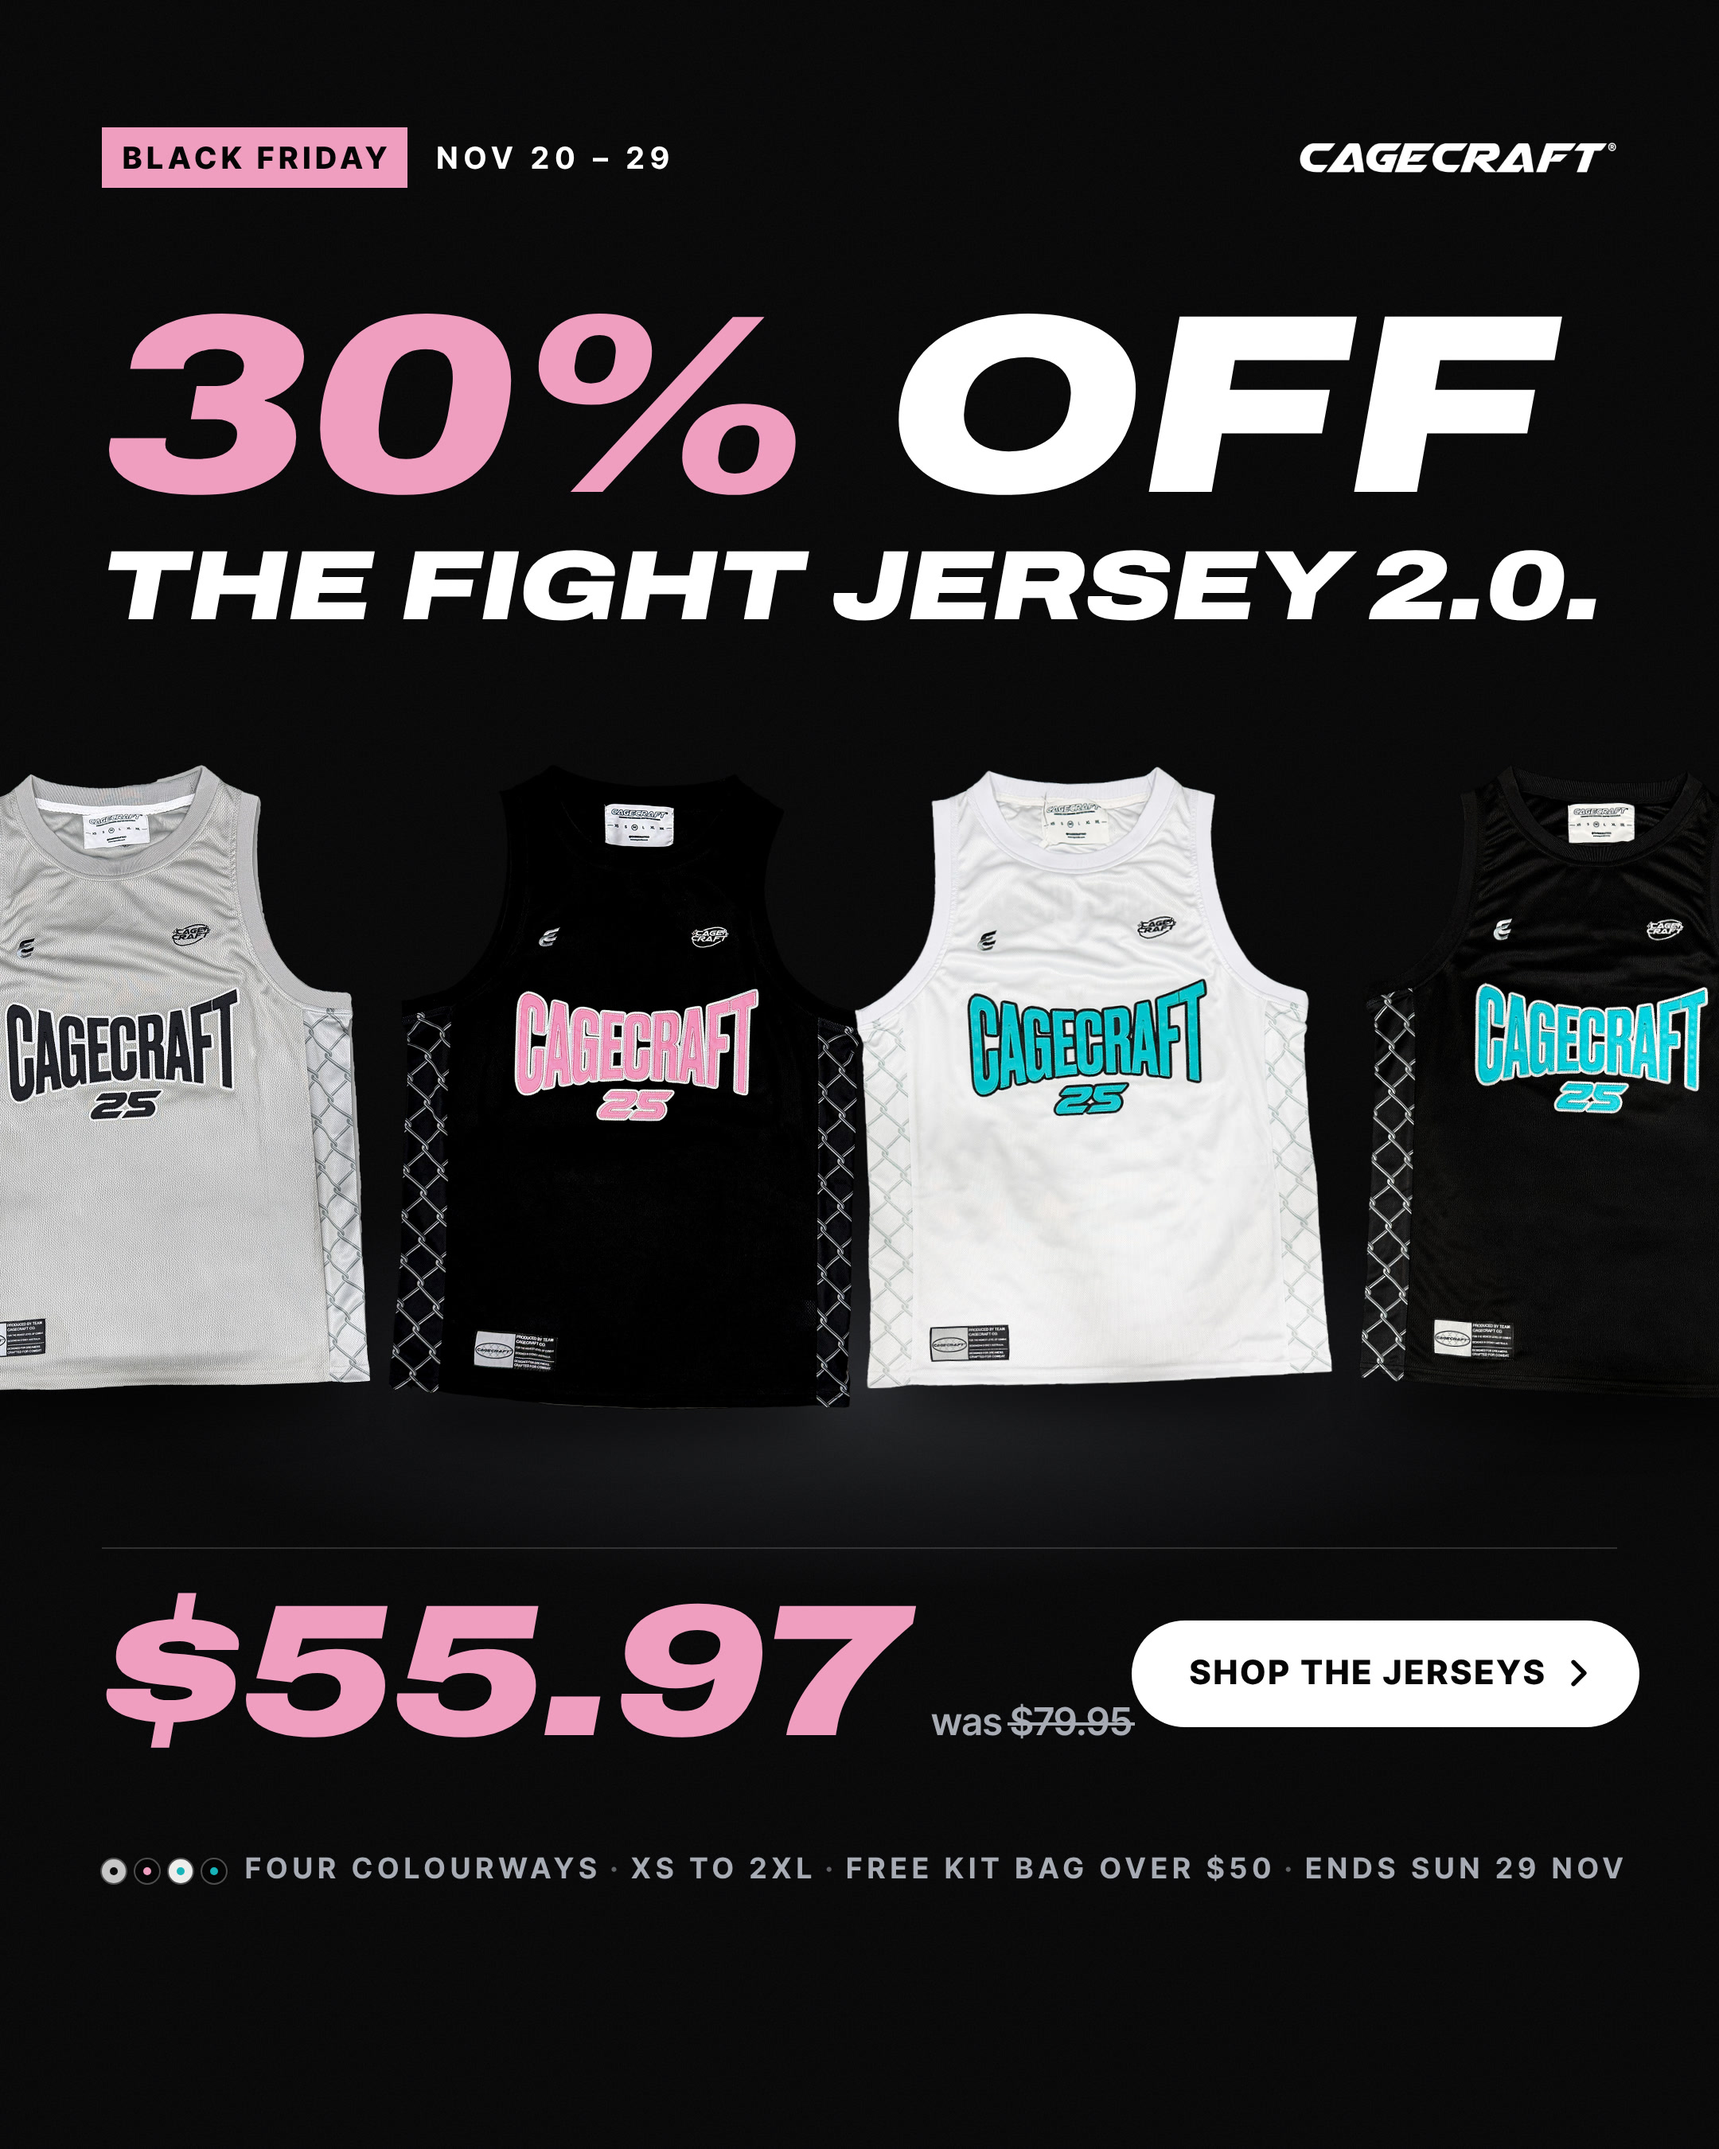
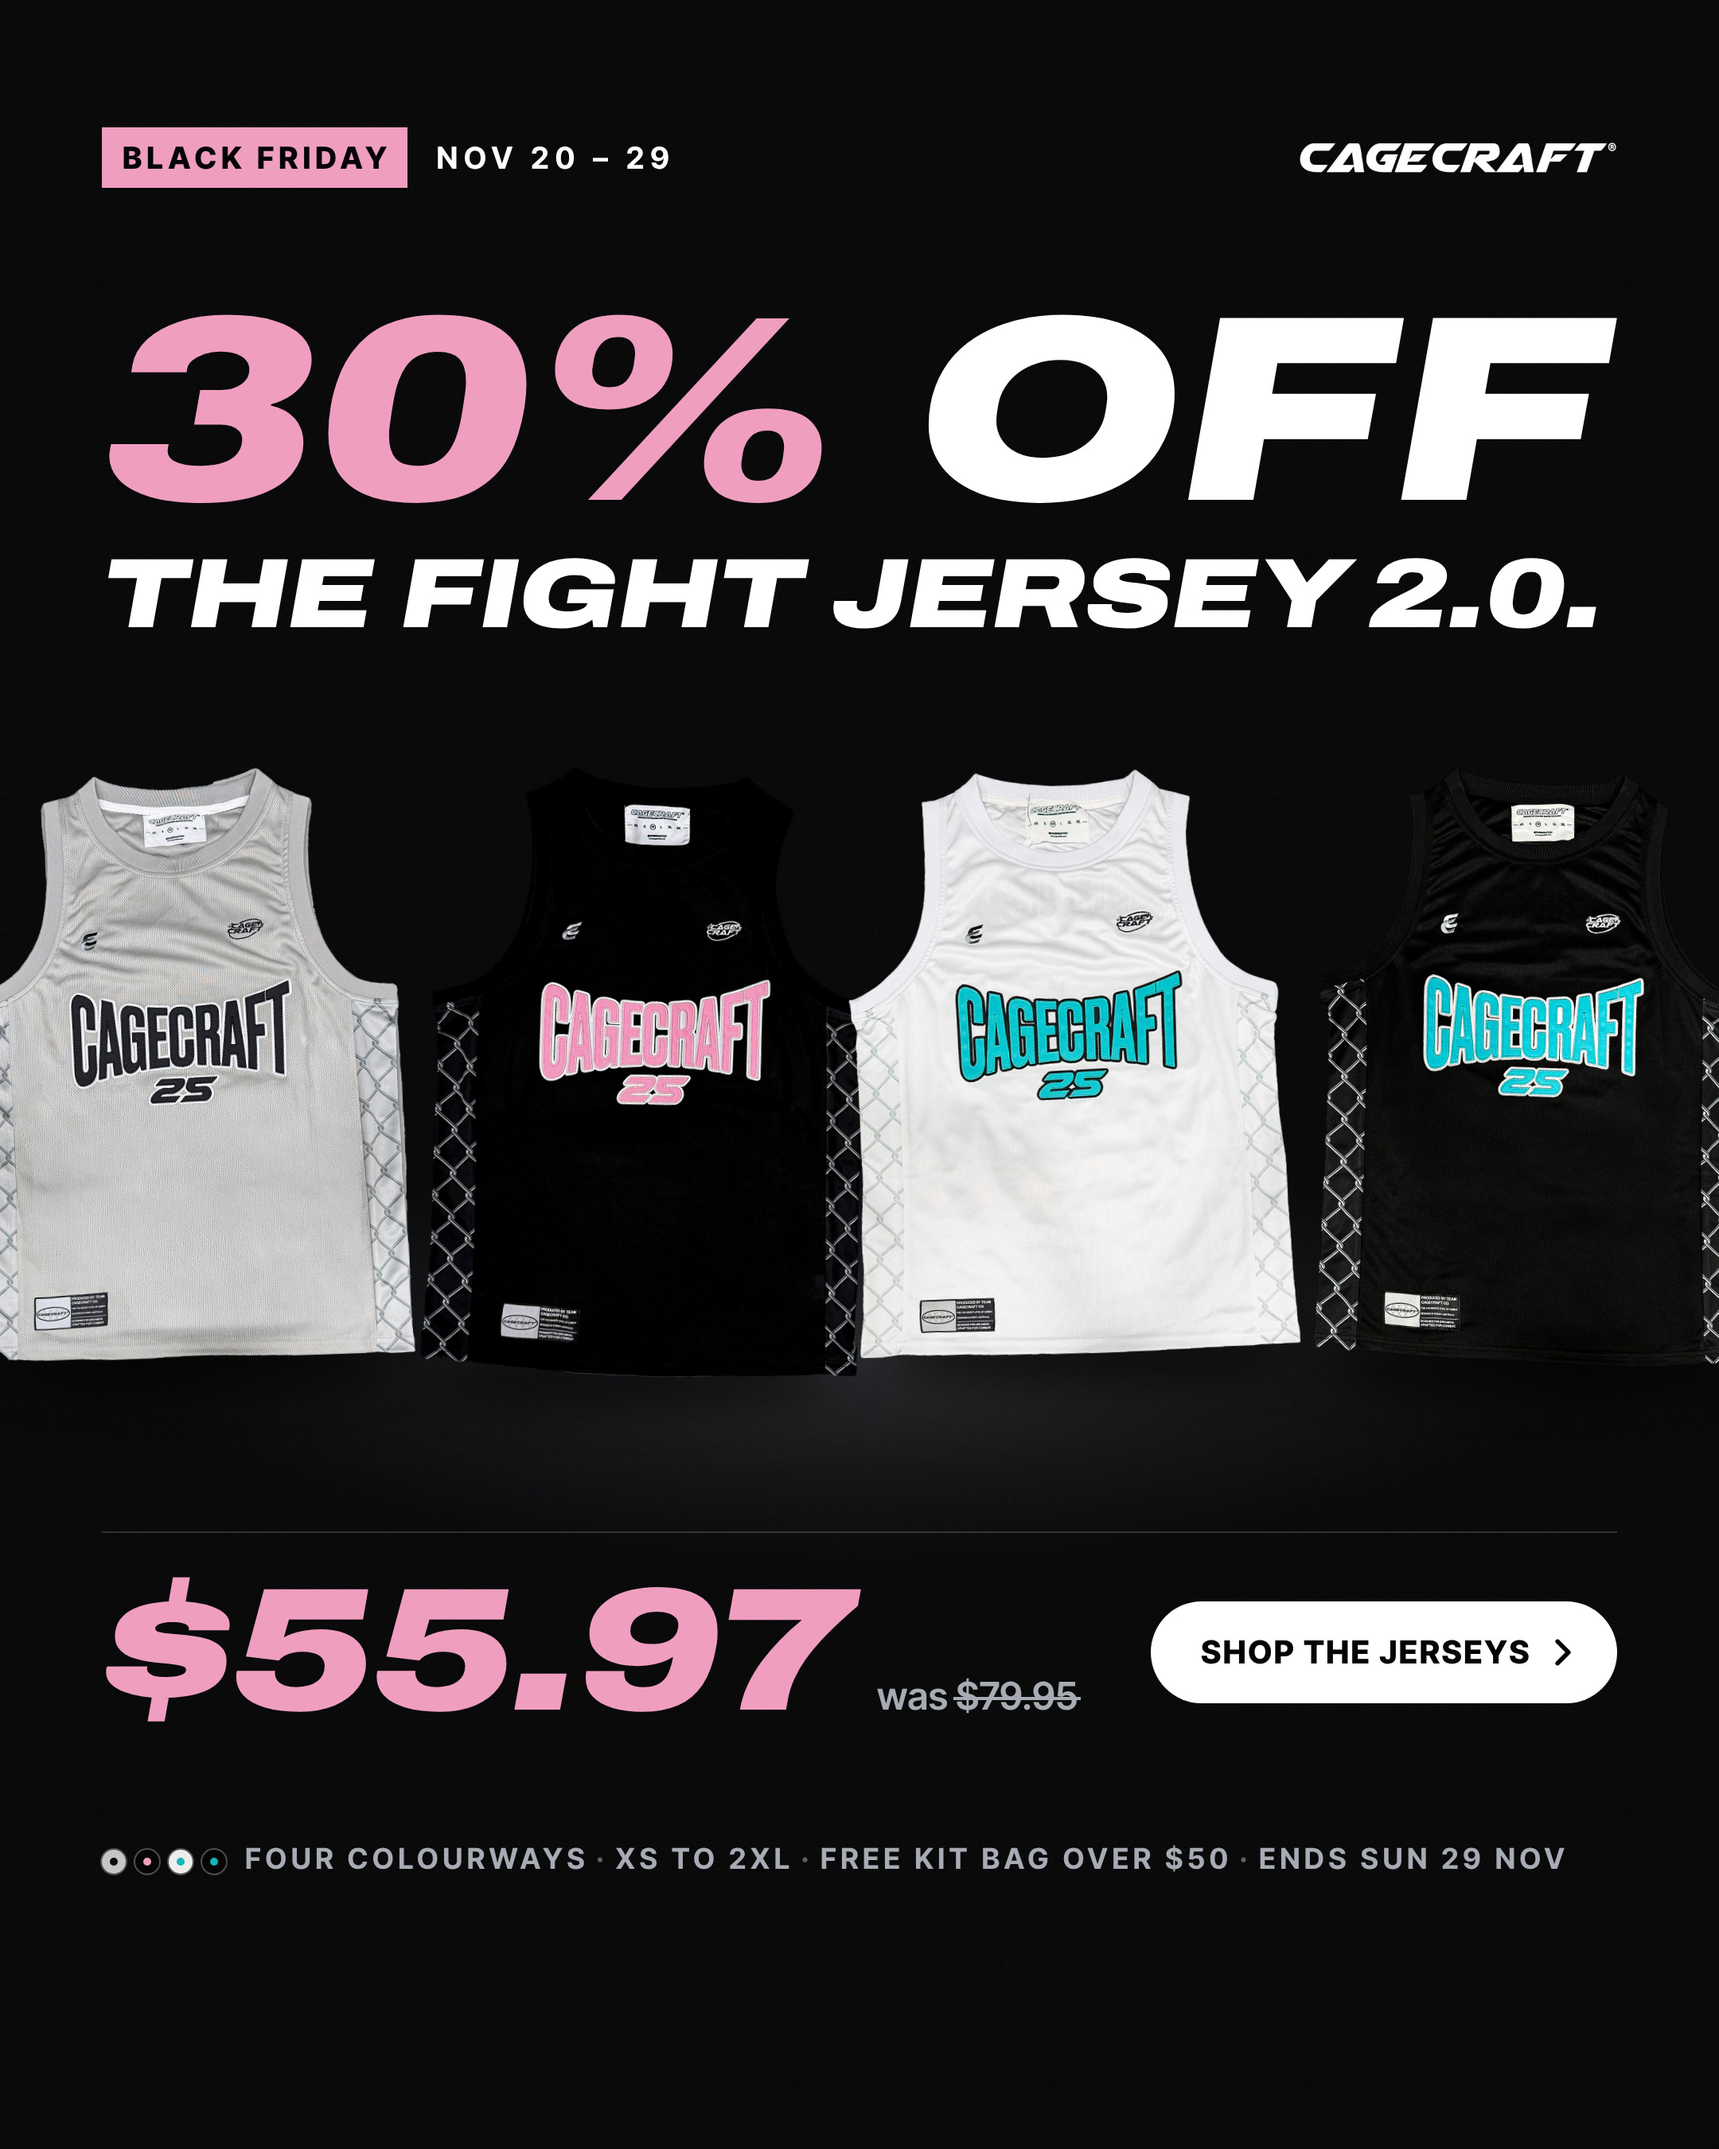
WIP: Black Friday ads (four of five complete)
Claude-Session: https://claude.ai/code/session_01DwmoEqr1RwHTgddNqYW2vH

diff --git a/cagecraft-ads/ads/bf-03-jersey-price-drop/ad.html b/cagecraft-ads/ads/bf-03-jersey-price-drop/ad.html
@@ -39,17 +39,17 @@
   .price-row { left: var(--side); right: var(--side); top: var(--price-y); border-top: 1px solid var(--hair); padding-top: var(--price-pad, 30px);
     display: flex; align-items: center; justify-content: space-between; }
   .price { display: flex; align-items: baseline; gap: 18px; }
-  .price .now { font-size: var(--price, 118px); line-height: .82; color: var(--pink); }
+  .price .now { font-size: var(--price, 110px); line-height: .82; color: var(--pink); }
   .price .was { font: 600 24px/1 var(--cc-body); color: var(--grey); white-space: nowrap; }
   .price .was s { text-decoration: none; position: relative; }
   .price .was s::after { content: ""; position: absolute; left: -2px; right: -2px; top: 52%; height: 1.5px; background: var(--grey); }
-  .btn { background: #fff; color: #050506; border-radius: 999px; padding: 23px 32px 23px 36px; font: 800 21px/1 var(--cc-body); letter-spacing: .08em; text-transform: uppercase;
+  .btn { background: #fff; color: #050506; border-radius: 999px; padding: 22px 28px 22px 32px; font: 800 20px/1 var(--cc-body); letter-spacing: .06em; text-transform: uppercase;
     display: flex; align-items: center; gap: 14px; white-space: nowrap; }
   .btn svg { width: 12px; height: 20px; }
 
   /* ---------- facts line ---------- */
   .facts { left: var(--side); right: var(--side); top: var(--facts-y); display: flex; align-items: center; gap: 12px;
-    font: 700 18px/1 var(--cc-body); letter-spacing: .18em; text-transform: uppercase; color: var(--grey); white-space: nowrap; }
+    font: 700 18px/1 var(--cc-body); letter-spacing: .15em; text-transform: uppercase; color: var(--grey); white-space: nowrap; }
   .dots { display: flex; gap: 6px; }
   .dot { width: 15px; height: 15px; border-radius: 50%; position: relative; box-shadow: 0 0 0 1px rgba(255,255,255,.28); }
   .dot::after { content: ""; position: absolute; inset: 5px; border-radius: 50%; background: var(--ink); }
@@ -96,11 +96,11 @@
   const tall = new URLSearchParams(location.search).get("v") === "916";
   if (tall) document.body.classList.add("v916");
   const L = tall ? {
-    labelsY: 278, headY: 356, h1: 160, h2: 62, priceY: 1078, factsY: 1226,
-    top: 618, floorY: 1010, floorH: 380, w: 300, step: 302, rot: 2,
+    labelsY: 278, headY: 352, h1: 166, h2: 62, priceY: 1084, factsY: 1230,
+    top: 628, floorY: 1000, floorH: 400, w: 296, step: 284, rot: 2,
   } : {
-    labelsY: 80, headY: 184, h1: 160, h2: 62, priceY: 972, factsY: 1166,
-    top: 478, floorY: 868, floorH: 360, w: 300, step: 302, rot: 2,
+    labelsY: 80, headY: 184, h1: 166, h2: 62, priceY: 962, factsY: 1160,
+    top: 480, floorY: 850, floorH: 360, w: 284, step: 278, rot: 2,
   };
   const R = document.documentElement.style;
   for (const [k, v] of Object.entries({ "--labels-y": L.labelsY, "--head-y": L.headY, "--h1": L.h1, "--h2": L.h2,
